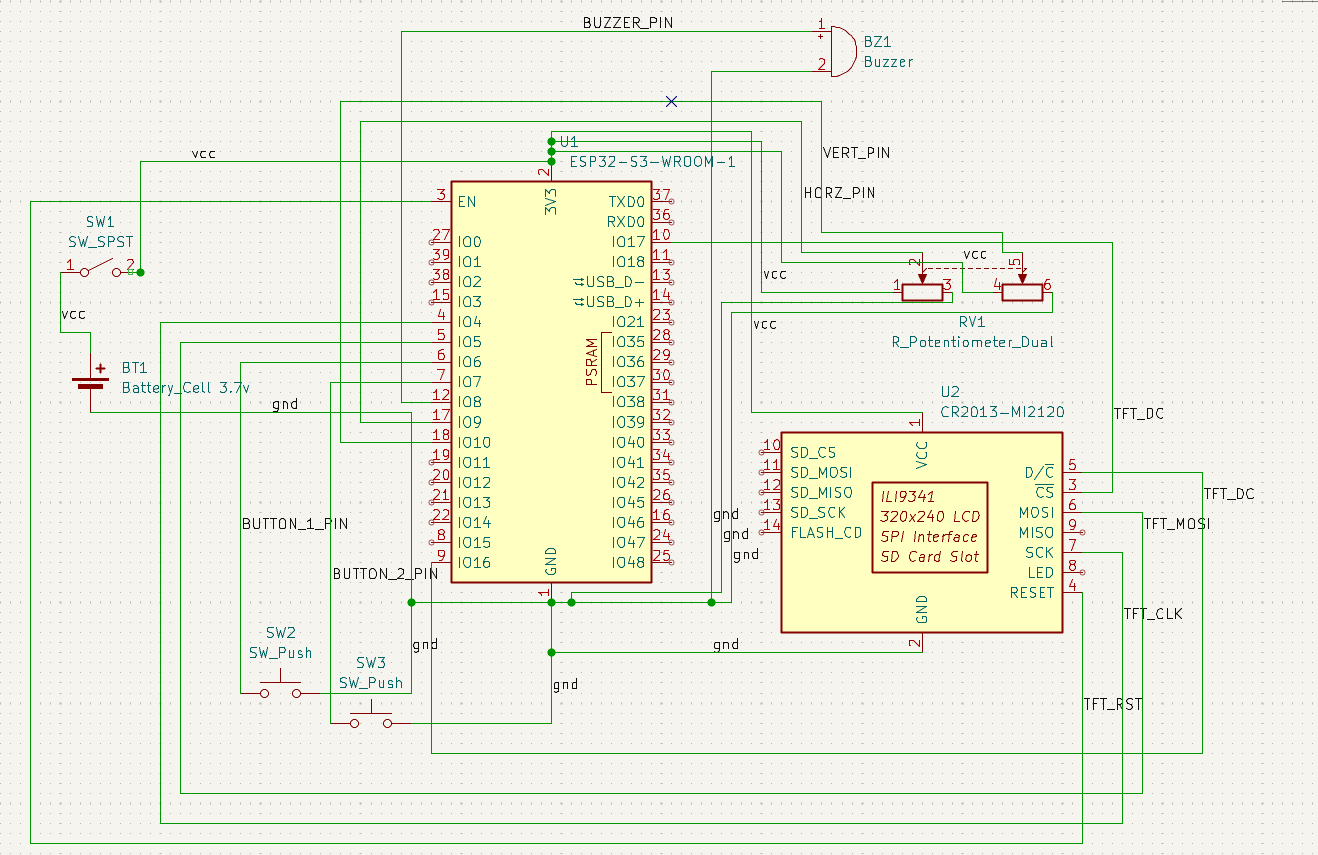
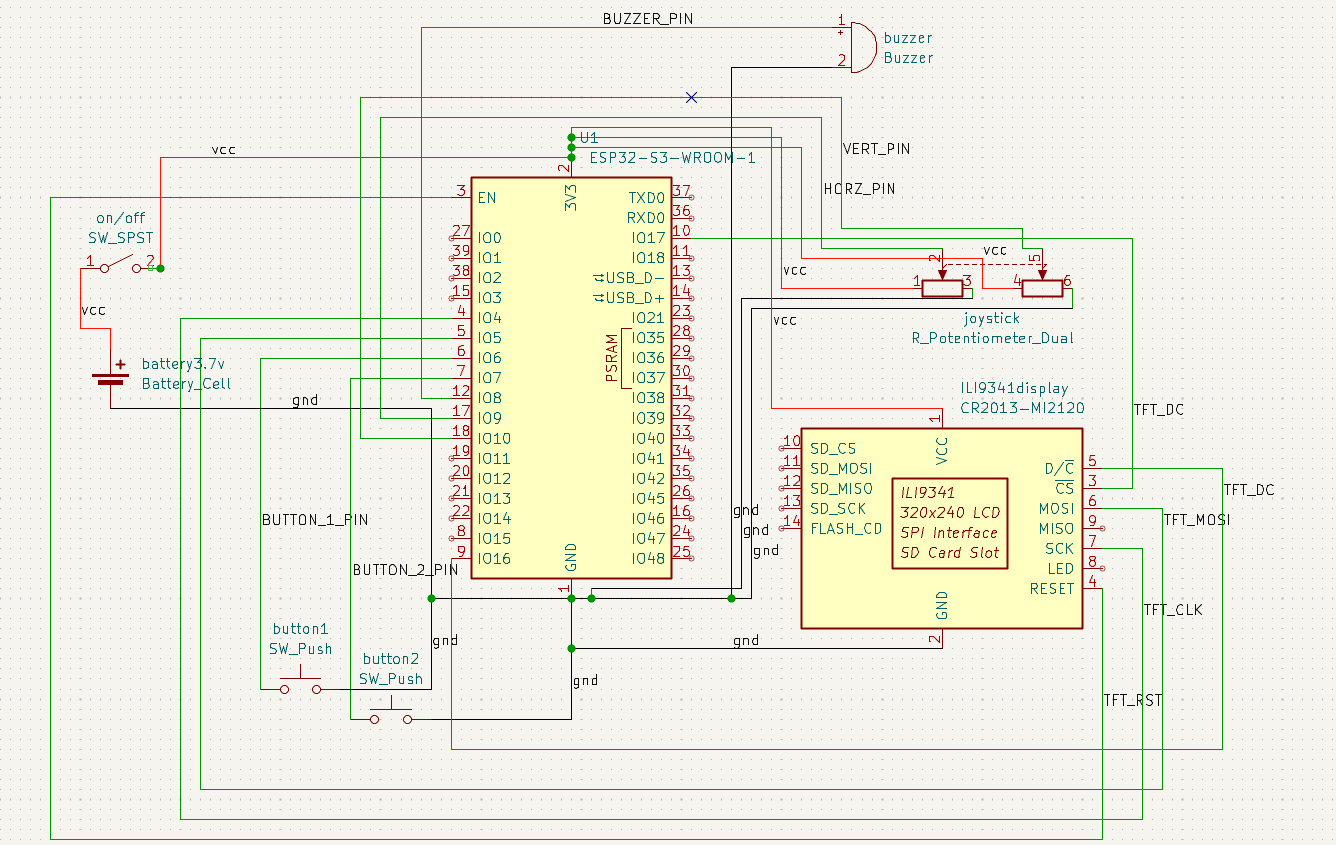
added to documentation

Changed region(s): [[0.0311, 0.0, 0.9643, 1.0], [0.8399, 0.4308, 0.9021, 0.4923], [0.8399, 0.3385, 0.871, 0.3692]]

diff --git a/docs/embedded/technical_documentation.md b/docs/embedded/technical_documentation.md
@@ -1,40 +1,10 @@
 # Technical documentation
 
-## Blueprint
-im going to be using the handheld game device as my blueprint.
-my idea will look a little like a gameboy.
+## Wiring Diagram
+### introduction
 
-## idea
+![wiring diagram](https://teemiixuujuu34-fa53a7.dev.hihva.nl/assets/kicad_wd.png)
 
-## possible parts
-- microcontroller with wifi(raspberry pi, eps32, arduino)
-- buttons
-- joystick (5v, 2 potentiometers)
-- lcd screen (240x320/320x480)
-- speaker
-- battery pack (18650 Li-ion)
-- breadboard (turns into perfboard after prototype)
-- battery charging port
-
-## code necessities
-- lcd screen library (Adafruit_ILI9341.h)
-
-## game used
-
-## websites used
-- https://www.instructables.com/Raspberry-Pi-1-Gameboy/
-- https://www.tinytronics.nl/nl/displays/tft/2.2-inch-tft-display-240*320-pixels-ili9341
-- https://www.tinytronics.nl/nl/displays/tft/3.5-inch-tft-display-320*480-pixels-mega-compatible-ili9486
-- https://wokwi.com/
-- https://www.instructables.com/C-Snake-Game-Simple/
-
-## failures
-- i used a joystick for my project. i connected this to the 5v, ground and 2 pins. however the joystick didnt work for quite a while, i tested and the values i got were very weird. after a bit of testing i tries connecting it to 3.3v instead of 5. this was a little against the instructions given on the internet and on the joystick itself, both said to use 5v. strangely enough the 3.3v worked and now the joystick works perfectly with values ranging from x 0-4095 and y 0-4095.
-## research
-
-## differences from the blueprint
-
-## pictures/ schematics/ 3D designs
 
 ## Bill of Materials prototype
 
